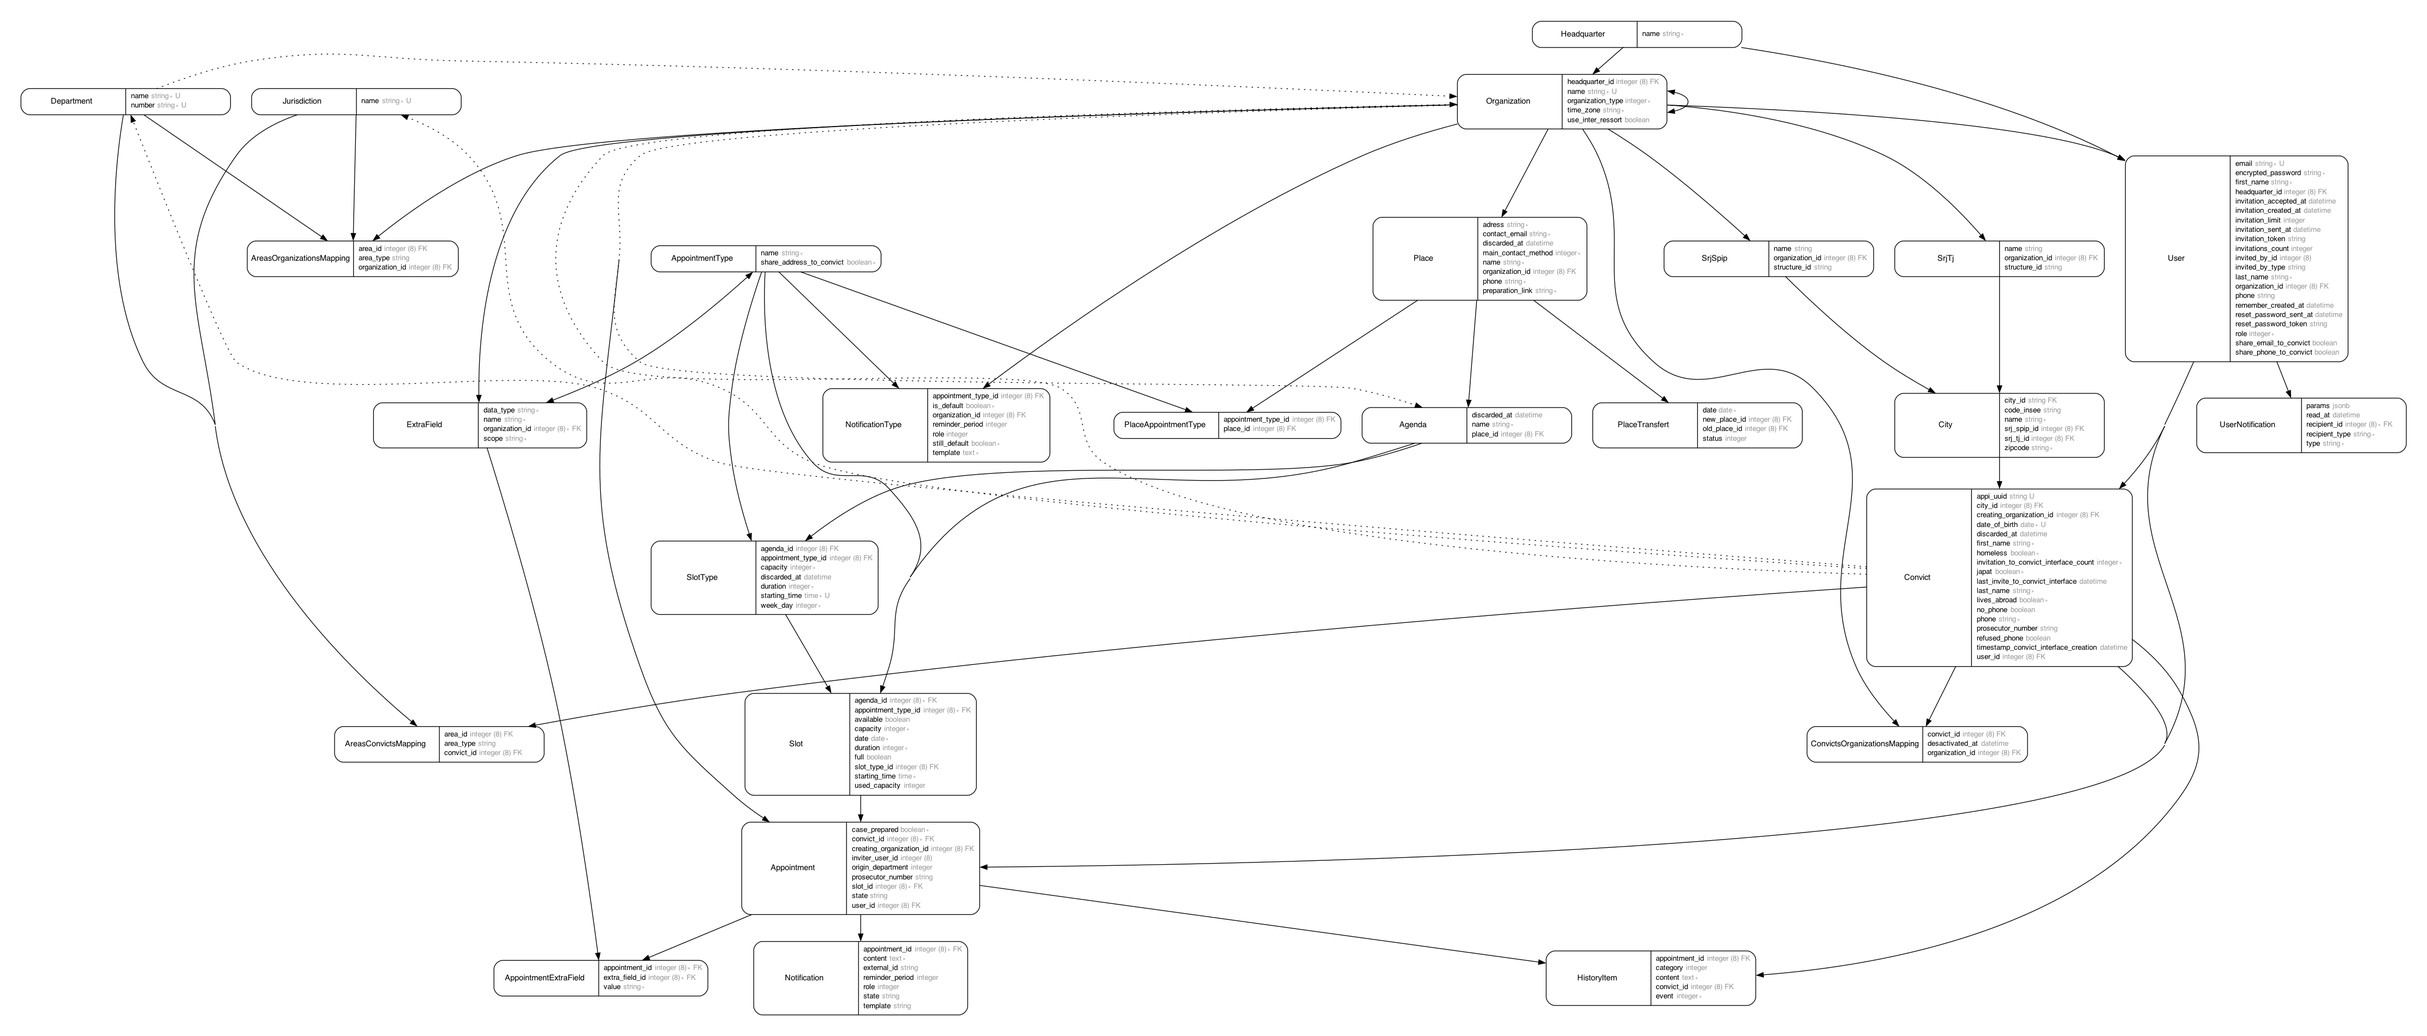
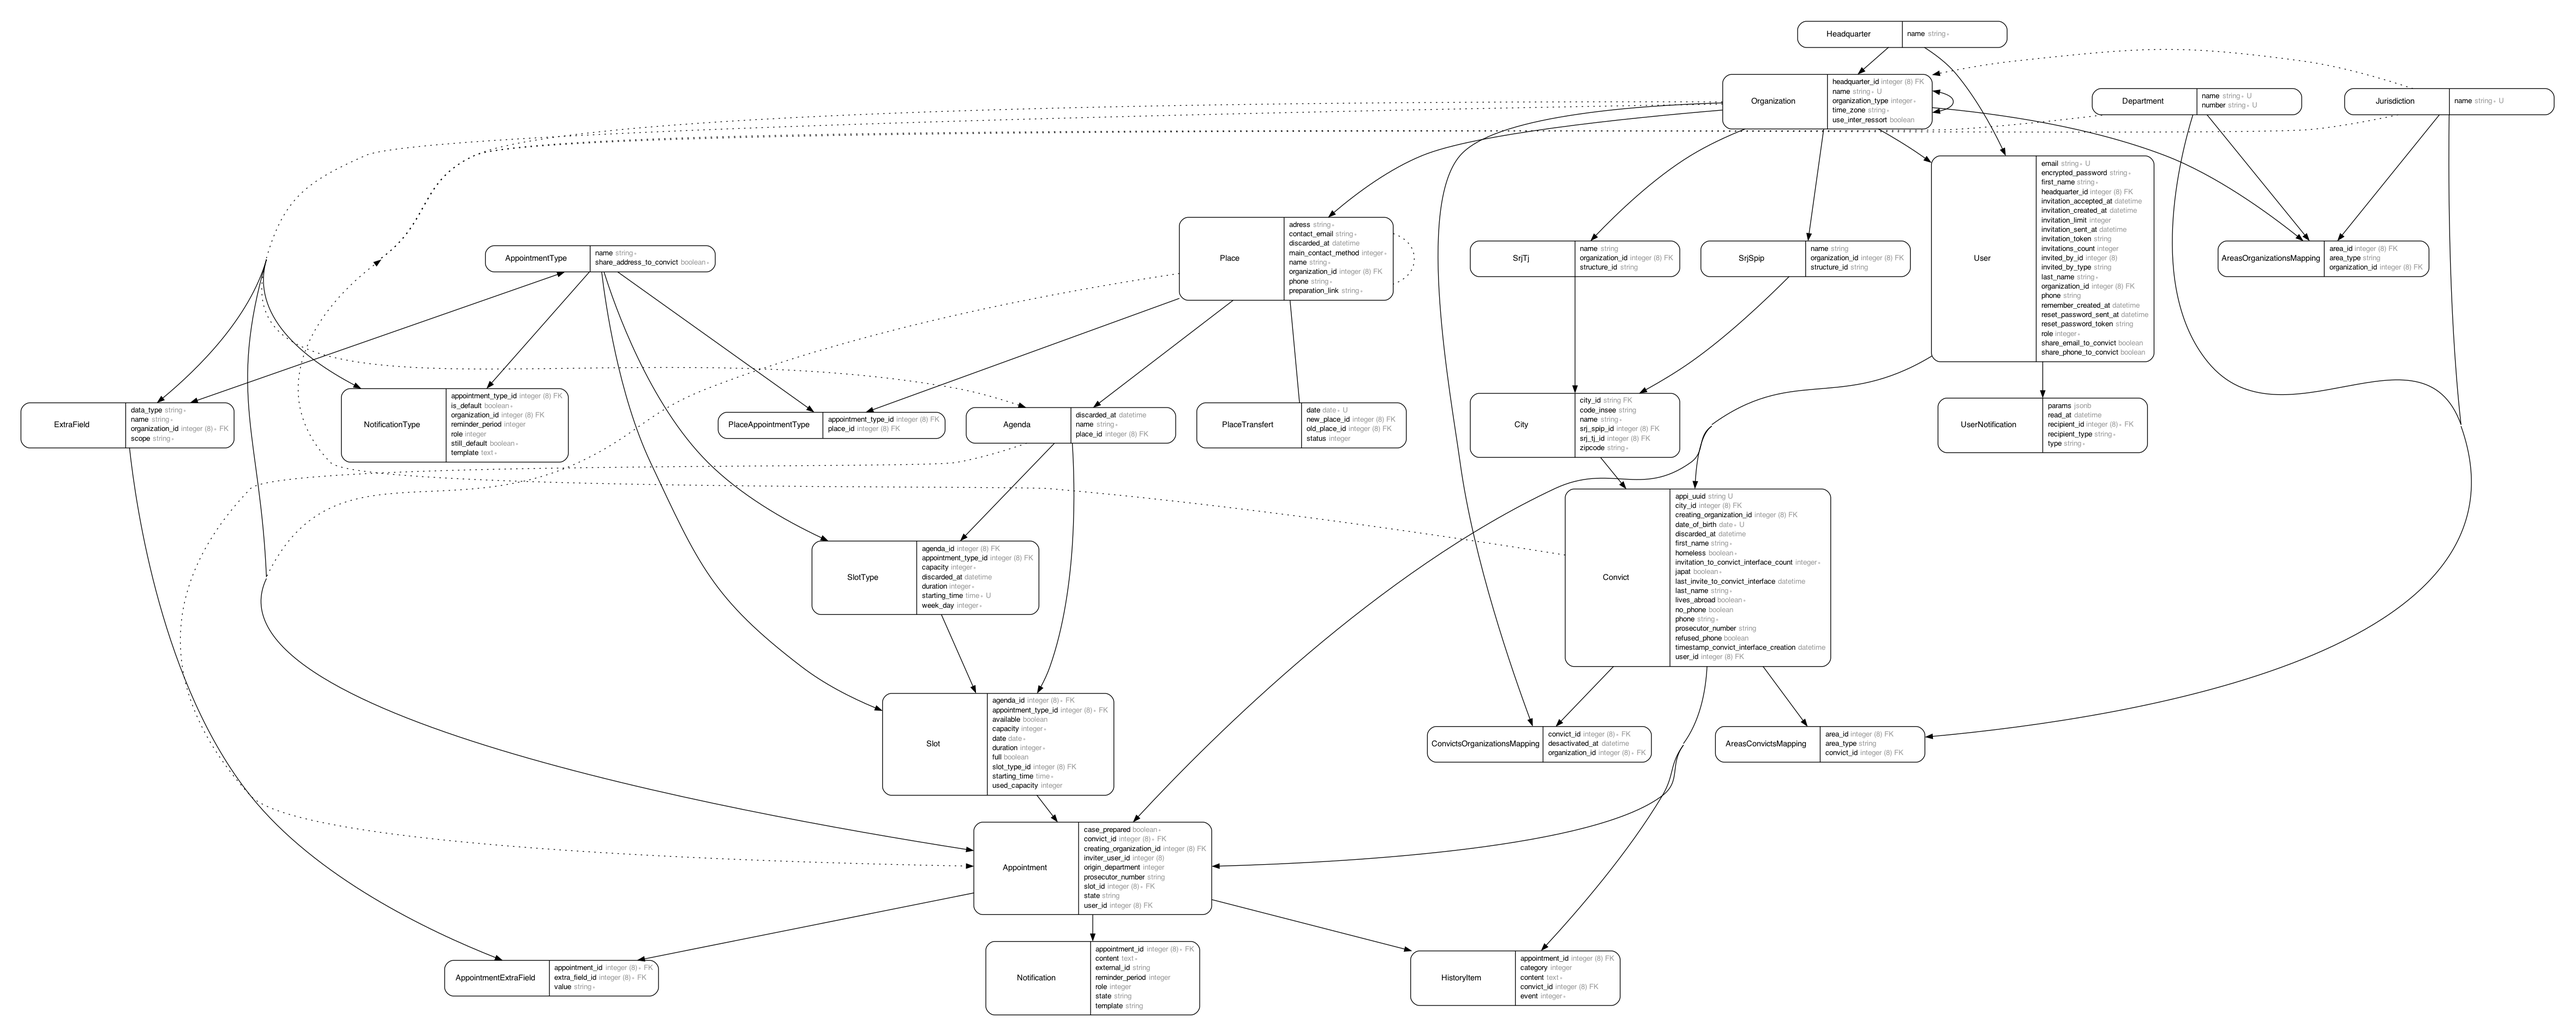
do not allow multiple links between convict and organization

diff --git a/db/schema.rb b/db/schema.rb
@@ -10,7 +10,7 @@
 #
 # It's strongly recommended that you check this file into your version control system.
 
-ActiveRecord::Schema.define(version: 2023_05_26_091613) do
+ActiveRecord::Schema.define(version: 2023_06_20_135108) do
 
   # These are extensions that must be enabled in order to support this database
   enable_extension "plpgsql"
@@ -212,12 +212,13 @@ ActiveRecord::Schema.define(version: 2023_05_26_091613) do
   end
 
   create_table "convicts_organizations_mappings", force: :cascade do |t|
-    t.bigint "organization_id"
-    t.bigint "convict_id"
+    t.bigint "organization_id", null: false
+    t.bigint "convict_id", null: false
     t.datetime "desactivated_at"
     t.datetime "created_at", precision: 6, null: false
     t.datetime "updated_at", precision: 6, null: false
     t.index ["convict_id"], name: "index_convicts_organizations_mappings_on_convict_id"
+    t.index ["organization_id", "convict_id"], name: "index_convicts_organizations_mappings_on_org_id_and_convict_id", unique: true
     t.index ["organization_id"], name: "index_convicts_organizations_mappings_on_organization_id"
   end
 

diff --git a/db/migrate/20230620135108_modify_convicts_organizations_mappings.rb b/db/migrate/20230620135108_modify_convicts_organizations_mappings.rb
@@ -1,0 +1,7 @@
+class ModifyConvictsOrganizationsMappings < ActiveRecord::Migration[6.1]
+  def change
+    change_column_null :convicts_organizations_mappings, :organization_id, false
+    change_column_null :convicts_organizations_mappings, :convict_id, false
+    add_index :convicts_organizations_mappings, [:organization_id, :convict_id], unique: true, name: 'index_convicts_organizations_mappings_on_org_id_and_convict_id'
+  end
+end
